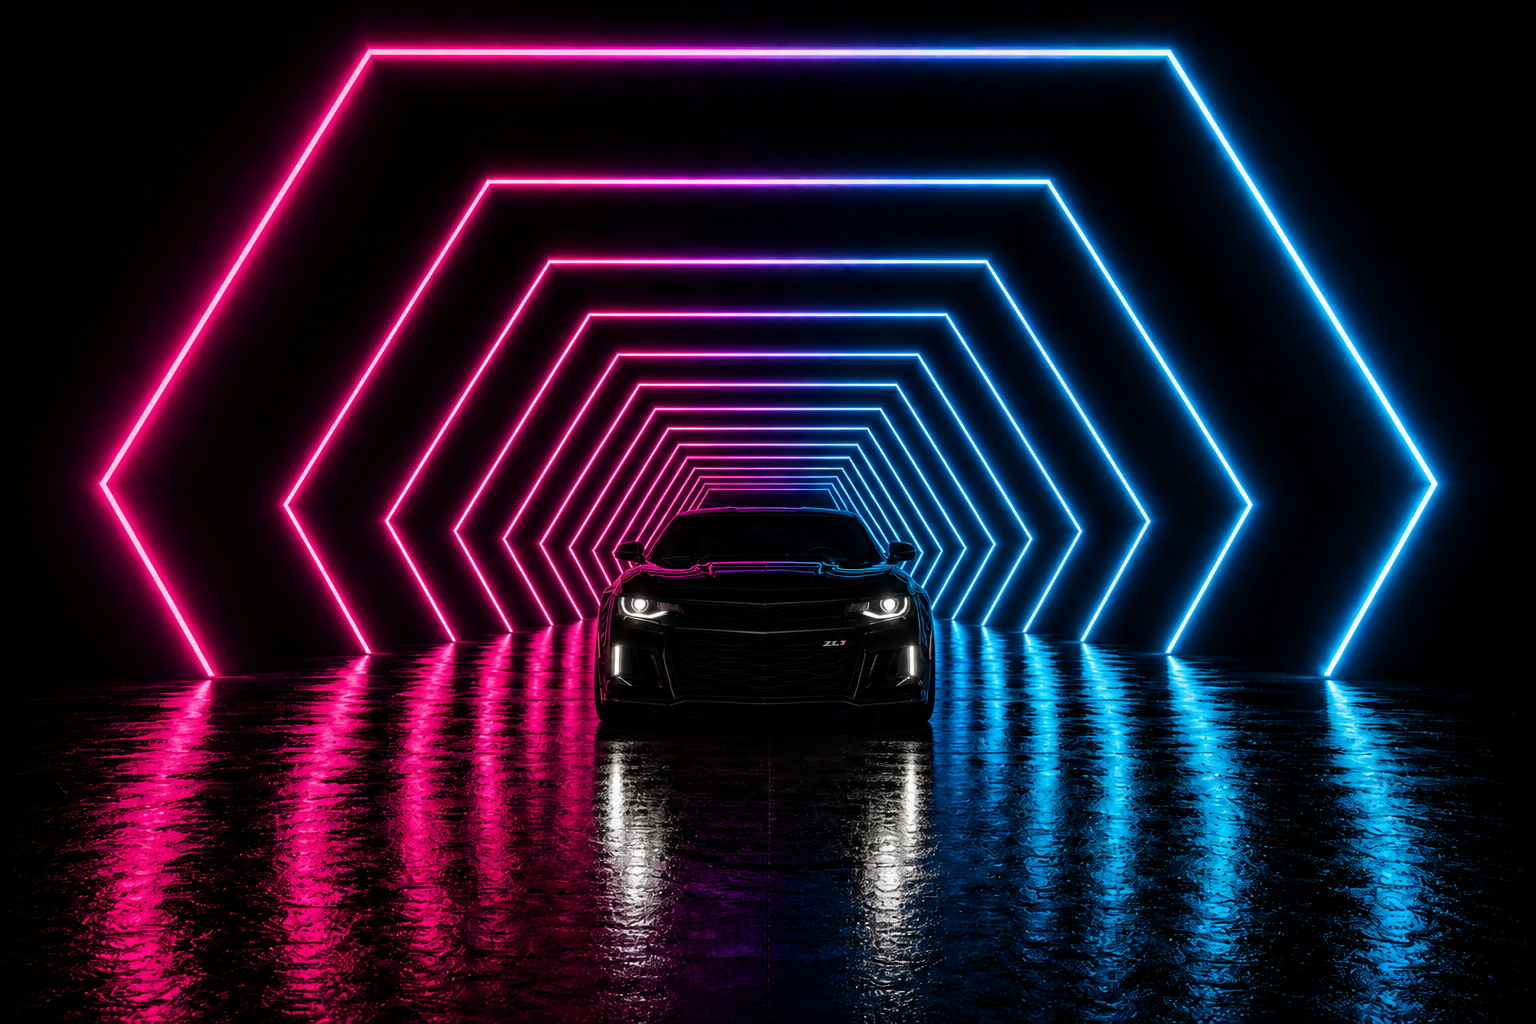
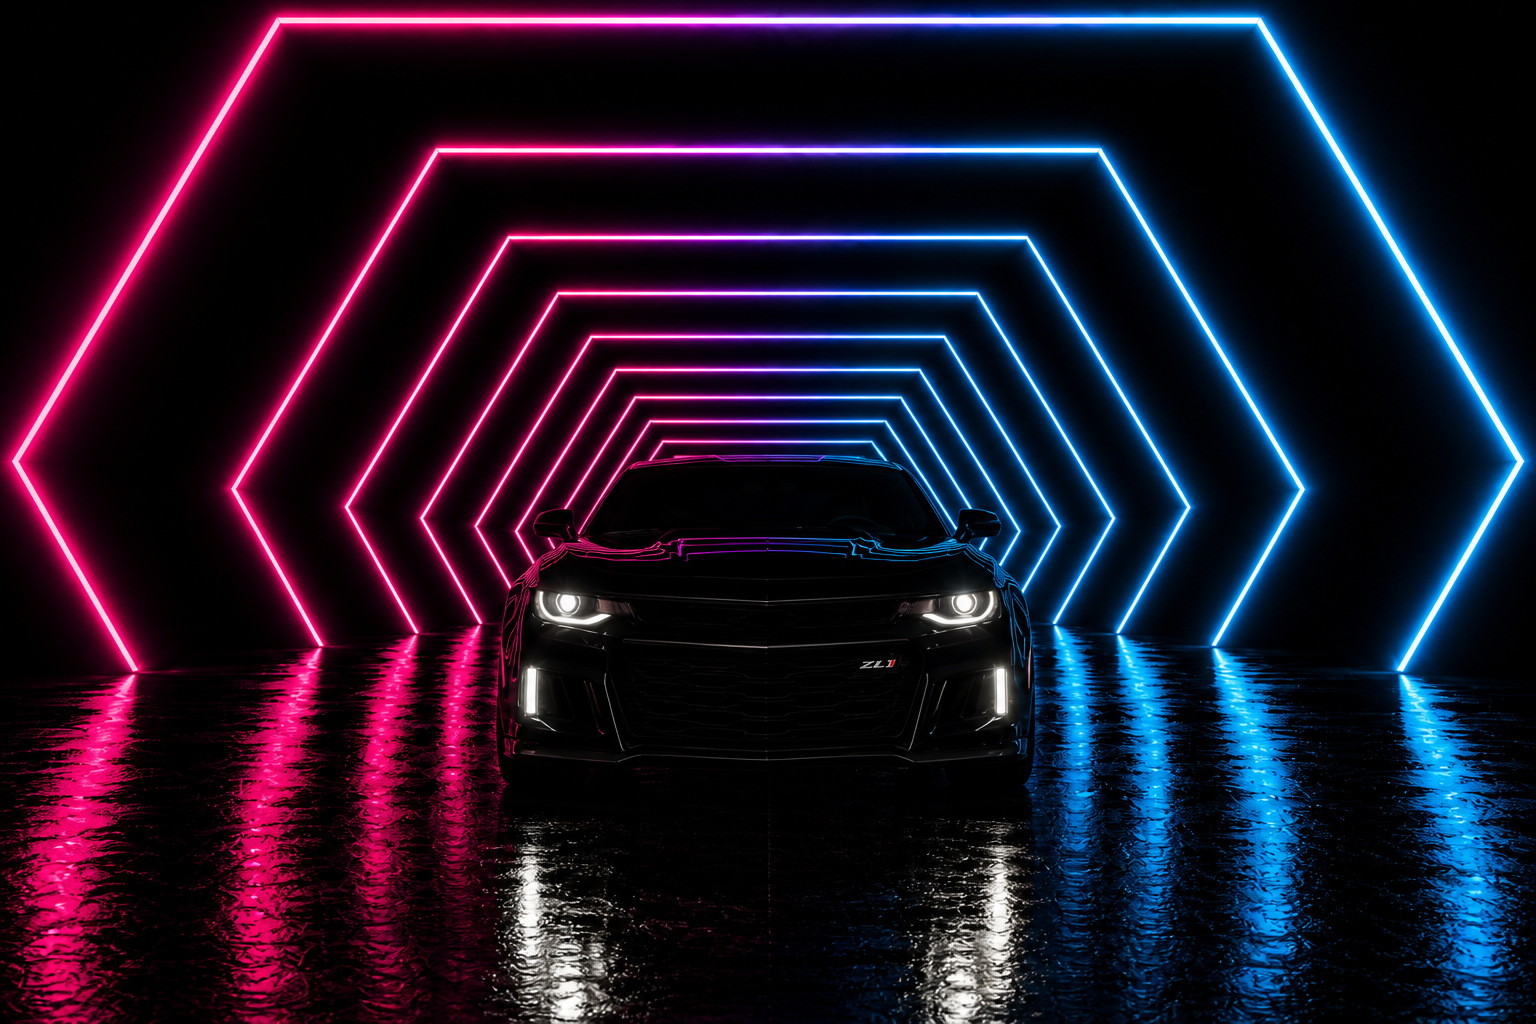
Remove the hex overlay that blocked the Camaro.
Drop the SVG rings over the grille and use a plate where the tunnel sits behind the car so the front of the vehicle stays clear.

diff --git a/artifacts/apex-detailing/src/components/hero/ApexHero.tsx b/artifacts/apex-detailing/src/components/hero/ApexHero.tsx
@@ -2,8 +2,7 @@ import { useReducedMotion } from "framer-motion";
 import { useEffect, useRef, useState } from "react";
 import { imageUrl } from "@/components/OptimizedImage";
 import HeroCopy from "./HeroCopy";
-import TunnelFrames from "./TunnelFrames";
-import { INTRO_MS, overlayFade, ramp } from "./heroTiming";
+import { INTRO_MS, ramp } from "./heroTiming";
 
 type Props = {
   bookingHref: string;
@@ -42,9 +41,8 @@ function waitForSplashGone(): Promise<void> {
 }
 
 /**
- * Hero visual is the front-facing Camaro + hex tunnel photograph, shown in
- * full (contain) so the picture matches the reference. 8 SVG paths light
- * back→front, then fade so the settled frame is the photo.
+ * Hero visual is the front-facing Camaro + hex tunnel photograph on the right.
+ * No SVG rings over the car — those blocked the grille.
  */
 export default function ApexHero({
   bookingHref,
@@ -91,7 +89,6 @@ export default function ApexHero({
   const scene = imageUrl("hero-tunnel-scene.jpg");
   const sceneWebp = scene.replace(/\.jpg$/i, ".webp");
   const sceneBright = 0.22 + ramp(clockMs, 200, INTRO_MS, reduce) * 0.78;
-  const glow = overlayFade(clockMs, reduce);
 
   return (
     <section id="home" className="apex-hero">
@@ -116,9 +113,6 @@ export default function ApexHero({
               draggable={false}
             />
           </picture>
-          <div className="apex-hero-tunnel-layer" style={{ opacity: glow }}>
-            <TunnelFrames clockMs={clockMs} reduced={reduce} />
-          </div>
         </div>
       </div>
       <div className="apex-hero-wash" aria-hidden="true" />
